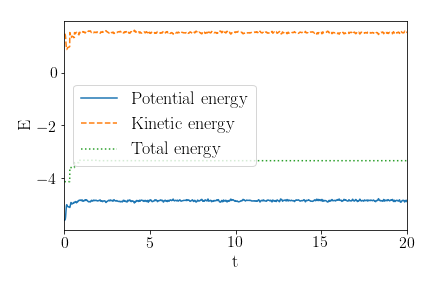
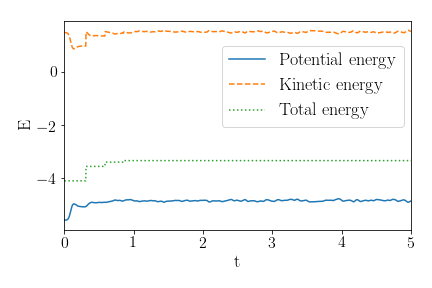
Figures for report. Minor change to argon_calculation.py

diff --git a/argon_calculation.py b/argon_calculation.py
@@ -417,7 +417,7 @@ def plot_energy(t_range, N, E_pot, E_kin, last_data_iteration, delta_t, figure_f
     plt.plot(t_range,E_pot/N,'-', label="Potential energy")
     plt.plot(t_range,E_kin/N,'--', label="Kinetic energy")
     plt.plot(t_range,(E_kin+E_pot)/N,':', label="Total energy")
-    plt.legend(bbox_to_anchor=(1.05, 1), loc=2, borderaxespad=0.,fontsize=18)
+    plt.legend(bbox_to_anchor=(0.98, 0.88), loc=1, borderaxespad=0.,fontsize=18)
     plt.xlabel('$\mathrm{t}$',fontsize=18)
     plt.ylabel('$\mathrm{E}$',fontsize=18)
     plt.xlim([0,5])#(last_data_iteration-1)*delta_t])
